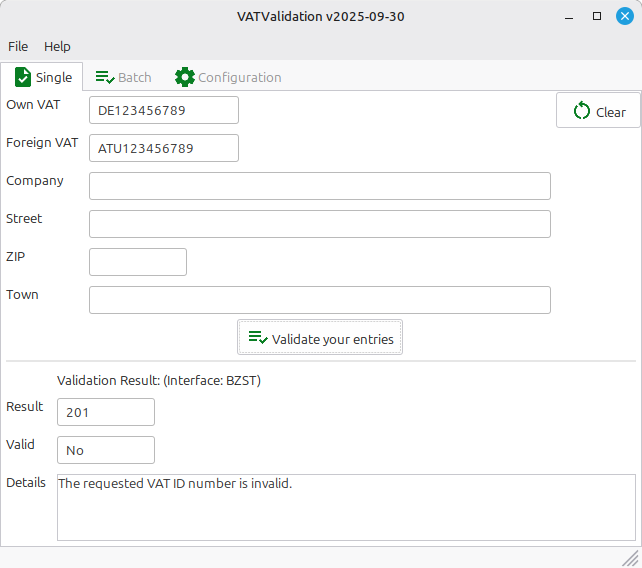
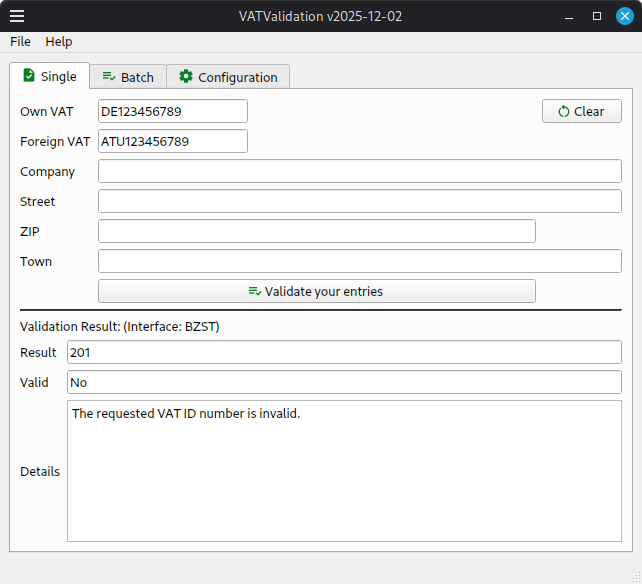
#93 fix last issues; add new screenshots

Changed region(s): [[0.0, 0.0, 1.0, 1.0], [0.0, 0.3592, 0.9657, 0.868]]

diff --git a/src/theme_manager.py b/src/theme_manager.py
@@ -1,0 +1,104 @@
+# Copyright (c) 2024-2025 Daniel Seichter
+#
+# This program is free software: you can redistribute it and/or modify
+# it under the terms of the GNU General Public License as published by
+# the Free Software Foundation, either version 3 of the License, or
+# (at your option) any later version.
+#
+# This program is distributed in the hope that it will be useful,
+# but WITHOUT ANY WARRANTY; without even the implied warranty of
+# MERCHANTABILITY or FITNESS FOR A PARTICULAR PURPOSE. See the
+# GNU General Public License for more details.
+#
+# You should have received a copy of the GNU General Public License
+# along with this program. If not, see <https://www.gnu.org/licenses/>.
+
+from PySide6.QtWidgets import QApplication
+from PySide6.QtCore import QSettings
+from PySide6.QtGui import QPalette, QColor
+
+
+class ThemeManager:
+    @staticmethod
+    def apply_theme(theme_name):
+        """Apply theme to the application"""
+        app = QApplication.instance()
+        if not app:
+            return
+            
+        if theme_name == "dark":
+            ThemeManager._apply_dark_theme(app)
+        elif theme_name == "light":
+            ThemeManager._apply_light_theme(app)
+        else:  # system
+            ThemeManager._apply_system_theme(app)
+    
+    @staticmethod
+    def _apply_dark_theme(app):
+        """Apply dark theme"""
+        dark_palette = QPalette()
+        dark_palette.setColor(QPalette.Window, QColor(43, 43, 43))
+        dark_palette.setColor(QPalette.WindowText, QColor(255, 255, 255))
+        dark_palette.setColor(QPalette.Base, QColor(30, 30, 30))
+        dark_palette.setColor(QPalette.AlternateBase, QColor(60, 60, 60))
+        dark_palette.setColor(QPalette.ToolTipBase, QColor(0, 0, 0))
+        dark_palette.setColor(QPalette.ToolTipText, QColor(255, 255, 255))
+        dark_palette.setColor(QPalette.Text, QColor(255, 255, 255))
+        dark_palette.setColor(QPalette.Button, QColor(53, 53, 53))
+        dark_palette.setColor(QPalette.ButtonText, QColor(255, 255, 255))
+        dark_palette.setColor(QPalette.BrightText, QColor(255, 0, 0))
+        dark_palette.setColor(QPalette.Link, QColor(66, 165, 245))
+        dark_palette.setColor(QPalette.Highlight, QColor(66, 165, 245))
+        dark_palette.setColor(QPalette.HighlightedText, QColor(0, 0, 0))
+        app.setPalette(dark_palette)
+    
+    @staticmethod
+    def _apply_light_theme(app):
+        """Apply light theme"""
+        light_palette = QPalette()
+        light_palette.setColor(QPalette.Window, QColor(240, 240, 240))
+        light_palette.setColor(QPalette.WindowText, QColor(0, 0, 0))
+        light_palette.setColor(QPalette.Base, QColor(255, 255, 255))
+        light_palette.setColor(QPalette.AlternateBase, QColor(245, 245, 245))
+        light_palette.setColor(QPalette.ToolTipBase, QColor(255, 255, 220))
+        light_palette.setColor(QPalette.ToolTipText, QColor(0, 0, 0))
+        light_palette.setColor(QPalette.Text, QColor(0, 0, 0))
+        light_palette.setColor(QPalette.Button, QColor(240, 240, 240))
+        light_palette.setColor(QPalette.ButtonText, QColor(0, 0, 0))
+        light_palette.setColor(QPalette.BrightText, QColor(255, 0, 0))
+        light_palette.setColor(QPalette.Link, QColor(0, 0, 255))
+        light_palette.setColor(QPalette.Highlight, QColor(0, 120, 215))
+        light_palette.setColor(QPalette.HighlightedText, QColor(255, 255, 255))
+        app.setPalette(light_palette)
+    
+    @staticmethod
+    def _apply_system_theme(app):
+        """Apply system theme"""
+        import os
+        # Check for dark mode on different platforms
+        is_dark = False
+        
+        # macOS
+        if os.name == 'posix' and 'darwin' in os.uname().sysname.lower():
+            try:
+                import subprocess
+                result = subprocess.run(['defaults', 'read', '-g', 'AppleInterfaceStyle'], 
+                                      capture_output=True, text=True)
+                is_dark = result.stdout.strip() == 'Dark'
+            except:
+                pass
+        
+        # Linux (check for dark theme)
+        elif os.name == 'posix':
+            try:
+                import subprocess
+                result = subprocess.run(['gsettings', 'get', 'org.gnome.desktop.interface', 'gtk-theme'], 
+                                      capture_output=True, text=True)
+                is_dark = 'dark' in result.stdout.lower()
+            except:
+                pass
+        
+        if is_dark:
+            ThemeManager._apply_dark_theme(app)
+        else:
+            ThemeManager._apply_light_theme(app)

diff --git a/src/vatvalidation.py b/src/vatvalidation.py
@@ -17,6 +17,8 @@ import sys
 from PySide6.QtWidgets import QApplication, QMessageBox, QFileDialog
 from PySide6.QtCore import QTimer
 
+import theme_manager
+
 # Import the newly created GUI file
 import gui_vatvalidation
 
@@ -55,6 +57,7 @@ class VATValidationFrame(gui_vatvalidation.MainFrame):
         self.buttonOutputFile.clicked.connect(self.selectOutputFile)
         self.buttonConfigLogfile.clicked.connect(self.openLogfile)
         self.buttonSaveConfig.clicked.connect(self.saveConfig)
+        self.comboBoxConfigTheme.currentTextChanged.connect(self.themeChanged)
         
         # Load config after a short delay to ensure UI is ready
         QTimer.singleShot(100, self.loadConfig)
@@ -125,6 +128,10 @@ class VATValidationFrame(gui_vatvalidation.MainFrame):
         self.textConfigCSVdelimiter.setText(settings.load_value_from_json_file("delimiter") or ",")
         self.textCtrlConfigLogfile.setText(settings.load_value_from_json_file("logfilename") or "")
         self.comboBoxConfigLoglevel.setCurrentText(settings.load_value_from_json_file("loglevel") or "ERROR")
+        self.comboBoxConfigTheme.setCurrentText(settings.load_value_from_json_file("theme") or "system")
+        
+        # Apply current theme
+        theme_manager.ThemeManager.apply_theme(settings.load_value_from_json_file("theme") or "system")
     
     def saveConfig(self):
         """Save configuration to file"""
@@ -134,7 +141,11 @@ class VATValidationFrame(gui_vatvalidation.MainFrame):
         settings.save_config("delimiter", self.textConfigCSVdelimiter.text())
         settings.save_config("logfilename", self.textCtrlConfigLogfile.text())
         settings.save_config("loglevel", self.comboBoxConfigLoglevel.currentText())
+        settings.save_config("theme", self.comboBoxConfigTheme.currentText())
         self.textOwnvat.setText(settings.load_value_from_json_file("ownvat"))
+        
+        # Apply new theme
+        theme_manager.ThemeManager.apply_theme(self.comboBoxConfigTheme.currentText())
         QMessageBox.information(
             self,
             "Configuration saved",
@@ -298,6 +309,10 @@ class VATValidationFrame(gui_vatvalidation.MainFrame):
         """Show about dialog"""
         dlg = about_ui.DialogAbout(self)
         dlg.exec()
+    
+    def themeChanged(self, theme_name):
+        """Apply theme immediately when changed"""
+        theme_manager.ThemeManager.apply_theme(theme_name)
 
 
 class Handler(FileSystemEventHandler):
@@ -312,6 +327,13 @@ class Handler(FileSystemEventHandler):
 
 if __name__ == "__main__":
     app = QApplication(sys.argv)
+    
+    # Apply initial theme from settings
+    import settings
+    settings.create_config()
+    theme = settings.load_value_from_json_file("theme") or "system"
+    theme_manager.ThemeManager.apply_theme(theme)
+    
     frame = VATValidationFrame()
     frame.show()
     sys.exit(app.exec())

diff --git a/src/gui_vatvalidation.py b/src/gui_vatvalidation.py
@@ -250,10 +250,16 @@ class MainFrame(QMainWindow):
         self.comboBoxConfigLoglevel.setCurrentIndex(1)
         config_layout.addWidget(self.comboBoxConfigLoglevel, 5, 1)
         
+        # Theme
+        config_layout.addWidget(QLabel("Theme"), 6, 0)
+        self.comboBoxConfigTheme = QComboBox()
+        self.comboBoxConfigTheme.addItems(["system", "light", "dark"])
+        config_layout.addWidget(self.comboBoxConfigTheme, 6, 1)
+        
         # Save button
         self.buttonSaveConfig = QPushButton("Save")
         self.buttonSaveConfig.setIcon(icons.get_icon('save_24dp_097e23_fill1_wght400_grad0_opsz24'))
-        config_layout.addWidget(self.buttonSaveConfig, 6, 0)
+        config_layout.addWidget(self.buttonSaveConfig, 7, 0)
         
         layout.addLayout(config_layout)
         layout.addStretch()

diff --git a/src/helper.py b/src/helper.py
@@ -19,7 +19,7 @@ import logging
 
 logging.basicConfig(level=logging.ERROR, format='%(asctime)s - %(levelname)s - %(message)s')
 
-VERSION = "v2025-09-30"
+VERSION = "v2025-12-02"
 UPDATEURL = 'https://api.github.com/repos/dseichter/VATValidation/releases/latest'
 RELEASES = 'https://github.com/dseichter/VATValidation/releases'
 NAME = 'VATValidation'

diff --git a/src/settings.py b/src/settings.py
@@ -54,6 +54,8 @@ def create_config():
         data['logfilename'] = f'{log_dir}/vatvalidation.log'
     if 'loglevel' not in data:
         data['loglevel'] = 'ERROR'
+    if 'theme' not in data:
+        data['theme'] = 'system'
 
     with open(CONFIGFILE, 'w') as f:
         json.dump(data, f, indent=4, sort_keys=True)

diff --git a/src/gui_about.py b/src/gui_about.py
@@ -21,7 +21,7 @@ import helper
 import icons
 
 
-class dialogAbout(QDialog):
+class DialogAbout(QDialog):
     def __init__(self, parent=None):
         super().__init__(parent)
         self.setWindowTitle("About VATValidation")

diff --git a/src/about_ui.py b/src/about_ui.py
@@ -17,7 +17,7 @@ import gui_about
 import webbrowser
 
 
-class DialogAbout(gui_about.dialogAbout):
+class DialogAbout(gui_about.DialogAbout):
     def __init__(self, parent=None):
         super().__init__(parent)
     
